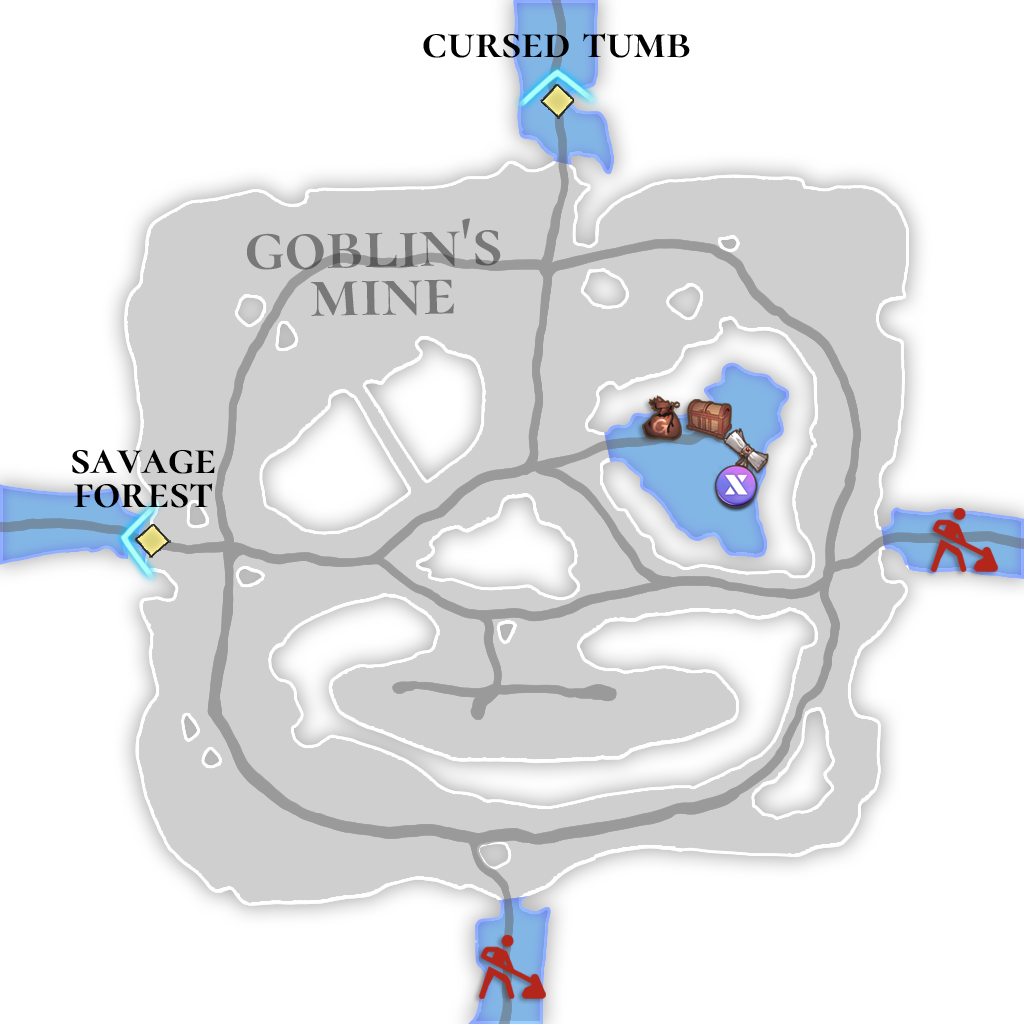
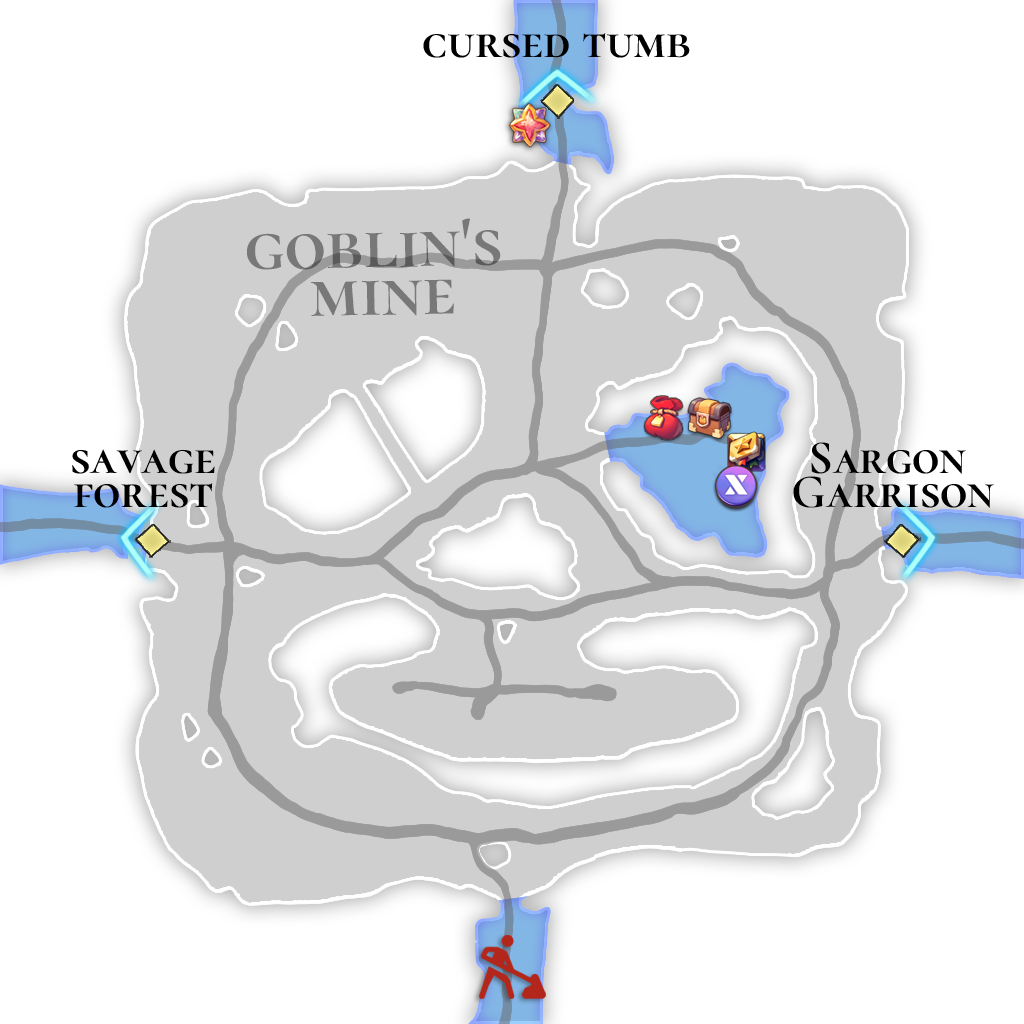
GITBOOK-464: No subject

Changed region(s): [[0.75, 0.4375, 0.9688, 0.5625], [0.625, 0.375, 0.75, 0.4688], [0.5, 0.0938, 0.5312, 0.1562]]

diff --git a/field-info/fields-by-level/lv.59-sargon-garrison-pk.md b/field-info/fields-by-level/lv.59-sargon-garrison-pk.md
@@ -1,0 +1,23 @@
+---
+description: 🛑 This information may be updated later than the game server data.
+---
+
+# 🌋 \~Lv.59 Sargon Garrison (PK)
+
+<figure><img src="../../.gitbook/assets/map008_B.png" alt=""><figcaption></figcaption></figure>
+
+<figure><img src="../../.gitbook/assets/Map_M8.png" alt="" width="375"><figcaption></figcaption></figure>
+
+{% tabs %}
+{% tab title="ENG" %}
+📒When the Golden Rule was broken, the horde of monsters surging from the north threatened Rahan’s granary lands, and the kingdom’s entire army was mobilized to stop them. Sargon, seeking atonement, took command of the garrison himself and gave his life to repel the monsters. Iskandar too raised a wall of iron to aid him, yet human strength alone was no match for the overwhelming might of the dragonkin. A brutal and perilous battle unlike any they had faced before awaited them.
+{% endtab %}
+
+{% tab title="한국어" %}
+📒황금의 규칙이 깨지자 북쪽에서 밀려오는 마물의 군세가 라한의 곡창지대를 위협했고, 왕국의 모든 병력이 이를 막기 위해 총동원 되었다. 죄를 뉘우치려 했던 사르곤은 스스로 주둔지의 수장이 되어 목숨을 바쳐 마물들을 물리친다. 이스칸달 역시 철의 장벽을 세워 그를 도왔지만, 용족의 막강한 힘을 인간의 힘으로 막기엔 역부족이었다. 이전까지는 겪어본 적 없던 거칠고 험난한 전투가 기다리고 있었다.
+{% endtab %}
+
+{% tab title="日本語" %}
+📒黄金の規律が破られると、北から押し寄せる魔物の軍勢がラハンの穀倉地帯を脅かし、王国の全兵力がこれを阻むため総動員された。贖罪を望んだサルゴンは、自ら駐屯地の長となり、命を賭して魔物を打ち払った。イスカンダルもまた鉄の障壁を築いて彼を助けたが、竜族の圧倒的な力を人の力で防ぐには力及ばなかった。これまでに経験したことのない荒々しく苛烈な戦いが待ち受けていた。
+{% endtab %}
+{% endtabs %}

diff --git a/SUMMARY.md b/SUMMARY.md
@@ -211,9 +211,10 @@
       * [🏺 \~Lv.50 Samgata](field-info/fields-by-level/lv.20-rahans-manor/naraka-dungeon/lv.50-samgata.md)
   * [🏔 \~Lv.30 Cursed Tomb](field-info/fields-by-level/lv.30-cursed-tomb.md)
   * [🏔 \~Lv.40 Temple of Agade](field-info/fields-by-level/lv.40-temple-of-agade.md)
-  * [🌋 \~Lv.50 Goblin's Mine (PK)](field-info/fields-by-level/lv.50-goblins-mine-pk.md)
-  * [🌋 \~Lv.55 Savage Forest (PK)](field-info/fields-by-level/lv.55-savage-forest-pk.md)
-  * [🌋 \~Lv.60 Ancient Tears (PK)](field-info/fields-by-level/lv.60-ancient-tears-pk.md)
+  * [🌋 \~Lv.45 Goblin's Mine (PK)](field-info/fields-by-level/lv.45-goblins-mine-pk.md)
+  * [🌋 \~Lv.50 Savage Forest (PK)](field-info/fields-by-level/lv.50-savage-forest-pk.md)
+  * [🌋 \~Lv.55 Ancient Tears (PK)](field-info/fields-by-level/lv.55-ancient-tears-pk.md)
+  * [🌋 \~Lv.59 Sargon Garrison (PK)](field-info/fields-by-level/lv.59-sargon-garrison-pk.md)
 
 ## 💰 Shop
 

diff --git a/field-info/fields-by-level/README.md b/field-info/fields-by-level/README.md
@@ -37,14 +37,14 @@ Initially, you must manually move your character and travel through portals to u
 [lv.40-temple-of-agade.md](lv.40-temple-of-agade.md)
 {% endcontent-ref %}
 
-{% content-ref url="lv.50-goblins-mine-pk.md" %}
-[lv.50-goblins-mine-pk.md](lv.50-goblins-mine-pk.md)
+{% content-ref url="lv.45-goblins-mine-pk.md" %}
+[lv.45-goblins-mine-pk.md](lv.45-goblins-mine-pk.md)
 {% endcontent-ref %}
 
-{% content-ref url="lv.55-savage-forest-pk.md" %}
-[lv.55-savage-forest-pk.md](lv.55-savage-forest-pk.md)
+{% content-ref url="lv.50-savage-forest-pk.md" %}
+[lv.50-savage-forest-pk.md](lv.50-savage-forest-pk.md)
 {% endcontent-ref %}
 
-{% content-ref url="lv.60-ancient-tears-pk.md" %}
-[lv.60-ancient-tears-pk.md](lv.60-ancient-tears-pk.md)
+{% content-ref url="lv.55-ancient-tears-pk.md" %}
+[lv.55-ancient-tears-pk.md](lv.55-ancient-tears-pk.md)
 {% endcontent-ref %}
